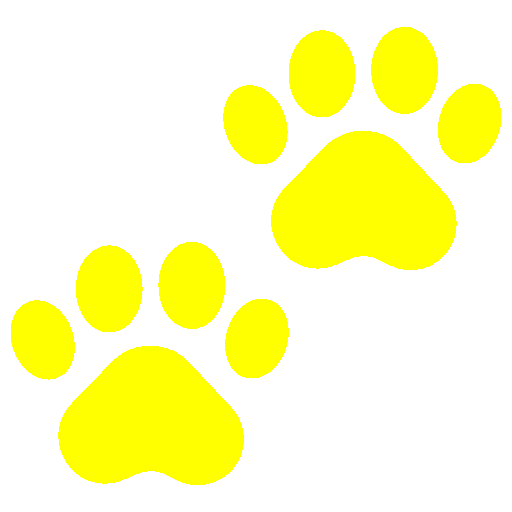
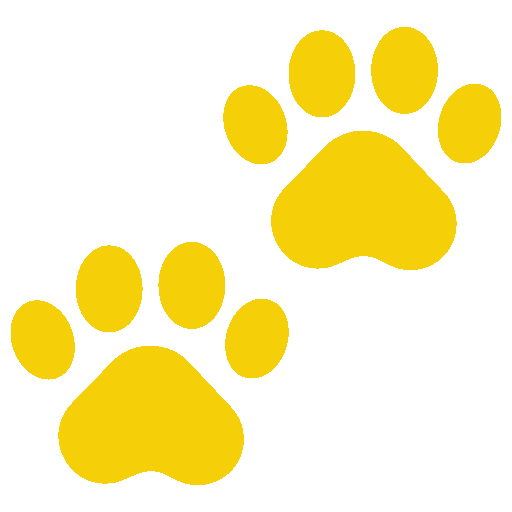
updated images

diff --git a/app/templates/faq.html b/app/templates/faq.html
@@ -4,50 +4,52 @@
      <b>Fequently asked questions </b><img src="{{ url_for('static', filename='css//paws.png') }}"><img src="{{ url_for('static', filename='css//paws.png') }}">
     </h1>
 
-        <div class="faq_wrapper">
+      <div class="faq_wrapper">
 
-
+         <div class="q_list">
             <h3 class="q_header">
-               ○ What animals can the modell recognise ○
+               What animals can the modell recognise? 
             </h3>
 
             <h4 class="a_header">
-                 Only cats and dogs
+               Only cats and dogs
             </h4>
 
             <h3 class="q_header">
-               ○ What animals can't the modell recognise ○
+               What animals can't the modell recognise? 
             </h3>
 
             <h4 class="a_header">
-                 Most off them
+               Most off them
             </h4>
 
             <h3 class="q_header">
-               ○ Why does this website even exist ○
+               Why does this website even exist? 
             </h3>
 
             <h4 class="a_header">
-                 To push the limits of what artificial intelligence can do                
+               To push the limits of what artificial intelligence can do                
             </h4>
 
             <h3 class="q_header">
-               ○ Can i submit an image that the modell failed to classify ○
+               Can i submit an image that the modell failed to classify? 
             </h3>
 
             <h4 class="a_header">
-                 Yes! Just don't forget to specify what animal your photo depicts
+               Yes! Just don't forget to specify what animal your photo depicts
             </h4>
 
             <h3 class="q_header">
-               ○ When will the full version be released ○
+               When will the full version be released?
             </h3>
 
             <h4 class="a_header">
-                 This is the full version
+               This is the full version
             </h4>
 
-        </div>
+         </div>
+
+      </div>
 
 
     </div>

diff --git a/app/static/css/style.css b/app/static/css/style.css
@@ -84,7 +84,7 @@ img {
 
 
 .feature_list {
-    color: rgb(146, 191, 253);
+    color: rgb(5 250 227);
     font-size: 300%;
     display: block;
     float: left;
@@ -97,7 +97,7 @@ img {
     display: block;
     float: right;
     margin-right: 100px;
-    color: rgb(215, 252, 0);
+    color: rgb(255, 215, 0);
     font-size: 850%;
     margin-top: 150px;
     font-family: "Noto Serif", serif;
@@ -107,9 +107,9 @@ img {
 .faq_wrapper{
     height: 55%;
     margin-top: 75px;
-    background: url("dogtre.jpg");
-    background-size: cover;
-    background-position: top;
+    background: url("dognie.png");
+    background-size: 100%;
+    background-position: bottom;
     background-repeat: no-repeat;
     background-attachment: fixed;
     padding-top: 50px;
@@ -119,7 +119,7 @@ img {
 .faq_header{
     font-size: 500%;
     text-align: center;
-    color: rgb(215, 252, 0);
+    color: rgb(255, 215, 0);
     font-family: "Noto Serif", serif;
     font-style: italic;
     background-color:#343a40;
@@ -129,17 +129,19 @@ img {
 
 .q_header {
     text-align: center;
-    color: rgb(215, 252, 0);
+    color: rgb(255, 215, 0);
     font-size: 275%;
     text-decoration: underline;
 }
 
 .a_header {
     text-align: center;
-    color: rgb(146, 191, 253);
+    color: rgb(5 250 227);
     font-size: 200%;
+
 }
 
 .faq_header img {
     height: 100px;
 }
+

diff --git a/app/templates/features.html b/app/templates/features.html
@@ -3,18 +3,18 @@
     <div class="f_wrapper">
         <ul class="feature_list">
             <li>
-                <i class='bx bx-plus-medical' style="color: rgb(215, 252, 0);"></i> World class image recognition
+                <i class='bx bx-plus-medical' style="color: rgb(255, 215, 0);"></i> World class image recognition
             </li>
 
             <li>
-                <i class='bx bx-plus-medical' style="color: rgb(215, 252, 0);"></i> Constantly improving modell 
+                <i class='bx bx-plus-medical' style="color: rgb(255, 215, 0);"></i> Constantly improving modell 
             </li>
             <li>
-                <i class='bx bx-plus-medical' style="color: rgb(215, 252, 0);"></i> Responsive webb-app
+                <i class='bx bx-plus-medical' style="color: rgb(255, 215, 0);"></i> Responsive webb-app
             </li>
 
             <li>
-                <i class='bx bx-plus-medical' style="color: rgb(215, 252, 0);"></i> Mostly GDPR complient 
+                <i class='bx bx-plus-medical' style="color: rgb(255, 215, 0);"></i> Mostly GDPR complient 
             </li>
         </ul>
 
